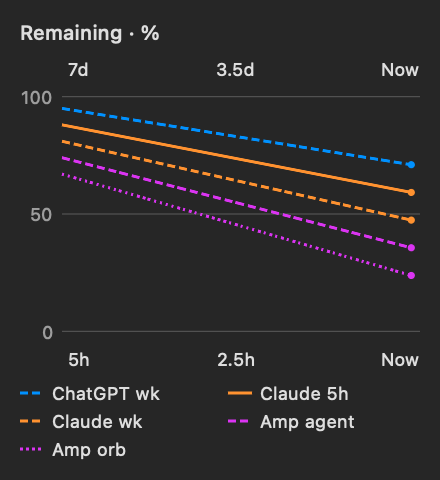
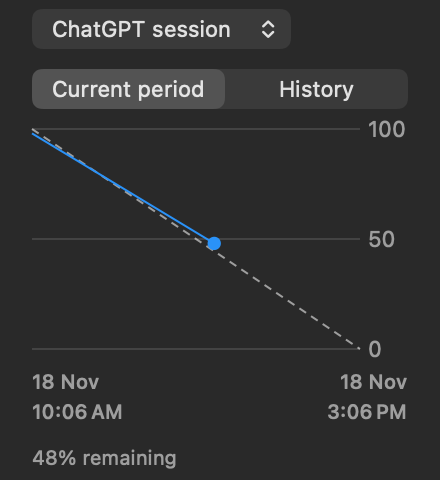
Preserve full usage history and match CodexBar remaining charts
Add account-matched CodexBar history import, current-period and history views, and thin observed lines without hover readouts.

Amp-Thread-ID: https://ampcode.com/threads/T-01a1ee43-6049-76f3-84d3-d8a02fb42e86

diff --git a/import_codex_history.py b/import_codex_history.py
@@ -13,7 +13,16 @@ def main():
     parser = argparse.ArgumentParser(description=__doc__)
     parser.add_argument("--codex-home", type=Path, default=Path(os.environ.get("CODEX_HOME", str(Path.home() / ".codex"))))
     parser.add_argument("--database", type=Path, default=Path.home() / ".cache/swiftbar-usage/history.sqlite")
+    parser.add_argument("--codexbar-history", type=Path, help="Optional CodexBar codex.json; imports only the current Codex account ID")
     args = parser.parse_args()
+    codexbar_series = []
+    if args.codexbar_history:
+        document = json.loads(args.codexbar_history.read_text())
+        account_id = json.loads((args.codex_home / "auth.json").read_text()).get("tokens", {}).get("account_id")
+        key = f"codex:v1:provider-account:{account_id}"
+        if document.get("version") != 1 or not account_id or key not in document.get("accounts", {}):
+            parser.error("No supported CodexBar history matched the current Codex account ID")
+        codexbar_series = document["accounts"][key]
     os.umask(0o077)
     now = int(time.time())
     cutoff = now - 90 * 86400
@@ -63,7 +72,30 @@ def main():
                         except (ValueError, KeyError, TypeError, AttributeError):
                             continue
                 db.commit()
-        print(f"Imported {db.total_changes - before} observed readings from {files} local session files. Existing samples were preserved.")
+        for series in codexbar_series:
+            minutes = series.get("windowMinutes")
+            if series.get("name") not in ("session", "weekly", "monthly") or type(minutes) is not int or minutes <= 0:
+                continue
+            for entry in series.get("entries", []):
+                try:
+                    stamp = dt.datetime.fromisoformat(entry["capturedAt"].replace("Z", "+00:00"))
+                    used = entry["usedPercent"]
+                    if stamp.tzinfo is None or type(used) not in (int, float) or not 0 <= used <= 100:
+                        continue
+                    at = int(stamp.timestamp())
+                    if not cutoff <= at <= now:
+                        continue
+                    reset = entry.get("resetsAt")
+                    if reset:
+                        reset_date = dt.datetime.fromisoformat(reset.replace("Z", "+00:00"))
+                        if reset_date.tzinfo is None:
+                            continue
+                        reset = int(reset_date.timestamp())
+                    db.execute("INSERT OR IGNORE INTO samples VALUES (?, 'codex', ?, ?, ?)",
+                               (at, f"codex_{minutes * 60}", 100 - used, reset))
+                except (ValueError, KeyError, TypeError, AttributeError):
+                    continue
+        print(f"Imported {db.total_changes - before} observed readings from {files} local session files and {len(codexbar_series)} matched CodexBar series. Existing samples were preserved.")
 
 
 if __name__ == "__main__":

diff --git a/tests/test_import.py b/tests/test_import.py
@@ -37,6 +37,22 @@ class ImportHistoryTest(unittest.TestCase):
             with sqlite3.connect(db_path) as db:
                 self.assertEqual(db.execute("SELECT at,remaining FROM samples ORDER BY at").fetchall(),
                                  [(now - 600, 82), (now - 300, 59)])
+            (root / "auth.json").write_text(json.dumps({"tokens": {"account_id": "current-test-account"}}))
+            def history(used):
+                return [{"name": "weekly", "windowMinutes": 10080, "entries": [
+                    {"capturedAt": dt.datetime.fromtimestamp(now - 100, dt.timezone.utc).isoformat(),
+                     "usedPercent": used, "resetsAt": None}]}]
+            bar = root / "codexbar.json"
+            bar.write_text(json.dumps({"version": 1, "accounts": {
+                "codex:v1:provider-account:other-test-account": history(91),
+                "codex:v1:provider-account:current-test-account": history(26)}}))
+            subprocess.run(command + ["--codexbar-history", str(bar)], check=True, capture_output=True)
+            subprocess.run(command + ["--codexbar-history", str(bar)], check=True, capture_output=True)
+            with sqlite3.connect(db_path) as db:
+                self.assertEqual(db.execute("SELECT at,remaining FROM samples ORDER BY at").fetchall(),
+                                 [(now - 600, 82), (now - 300, 59), (now - 100, 74)])
+            (root / "auth.json").write_text('{"tokens":{"account_id":"unmatched"}}')
+            self.assertNotEqual(subprocess.run(command + ["--codexbar-history", str(bar)], capture_output=True).returncode, 0)
 
 
 if __name__ == "__main__":

diff --git a/README.md b/README.md
@@ -13,7 +13,7 @@ The preview uses invented readings, rendered by the actual native chart. It is n
 - One menu-bar line with full provider names, remaining percentages, and reset countdowns.
 - Every recognized usage window returned by each source; absent windows are not invented.
 - Readable, non-selectable information rows and clickable provider headings.
-- A 220 × 240-point native chart with hover readings, light/dark appearance, and local history.
+- A 220 × 240-point native remaining-usage chart with a solid observed line, dashed ideal pace, latest-reading dot, and no hover readout. Choose a limit and switch between its current period and retained history.
 - Refresh on opening, without blocking the menu, plus a one-minute timer. Claude network requests run at most every five minutes when healthy; rate limiting increases the delay and honors `Retry-After`.
 - Explicitly labeled cached readings during failures. Only successful observations enter the history.
 
@@ -84,7 +84,7 @@ Amp's renewal date has no exact time; its countdown is approximate and prefixed 
 
 Data stays in `~/.cache/swiftbar-usage` (SQLite history plus normalized responses and retry state). Provider response bodies are temporarily written there during collection; credential headers are passed to curl over stdin rather than command arguments or cache files. Files created by the collector use a restrictive umask. Requests go to the providers; there is no added analytics or upload service. Do not attach your real cache, auth files, or unredacted screenshots to issues.
 
-History retains 90 days of observed samples, but the compact chart displays a five-hour session axis and a seven-day weekly/monthly axis. It starts empty unless you import existing observations (below); it cannot reconstruct unrecorded usage. Gaps and resets break lines rather than interpolating invented usage. Monthly allowances use the seven-day history display, not a monthly time axis. With many enabled limits, the combined menu-bar title can exceed available screen space; the dropdown keeps its own compact width.
+History retains 90 days of observed samples. The chart defaults to the selected limit's current reset period, with an ideal pace from 100% at the period start to 0% at reset. The History tab shows its full retained history without an ideal-pace line. If reset timing is unavailable or expired, the chart falls back to recorded history without inventing a reset. Points keep isolated observations visible; gaps and resets break lines rather than interpolating invented usage. Dense data is reduced to per-bucket extrema for display. It starts empty unless you import existing observations (below); it cannot reconstruct unrecorded usage. With many enabled limits, the combined menu-bar title can exceed available screen space; the dropdown keeps its own compact width.
 
 ### Import earlier ChatGPT observations
 
@@ -95,6 +95,14 @@ python3 import_codex_history.py
 ```
 
 It reads only `token_count` rate-limit events from `sessions` and `archived_sessions` under `CODEX_HOME` (default `~/.codex`), imports observations within the 90-day retention period, ignores other named model limits, and preserves existing database samples. No conversation content is stored or uploaded. Re-running is safe. Missing observations stay missing. If you have switched accounts in this Codex profile, its older logs may belong to a different account; use `--codex-home` to select the appropriate profile. `--database` can target a separate SQLite file for inspection first.
+
+CodexBar may have recorded additional quota observations independently of the CLI logs. To import its supported account-scoped history too:
+
+```sh
+python3 import_codex_history.py --codexbar-history "$HOME/Library/Application Support/com.steipete.codexbar/history/codex.json"
+```
+
+This reads only the bucket matching the current `tokens.account_id` in Codex's `auth.json`. Other accounts and unscoped history are not imported. It converts recorded percent-used to percent-remaining; it does not import estimated token costs as quota readings, change CodexBar's files, or upload history.
 
 ## Development and checks
 
